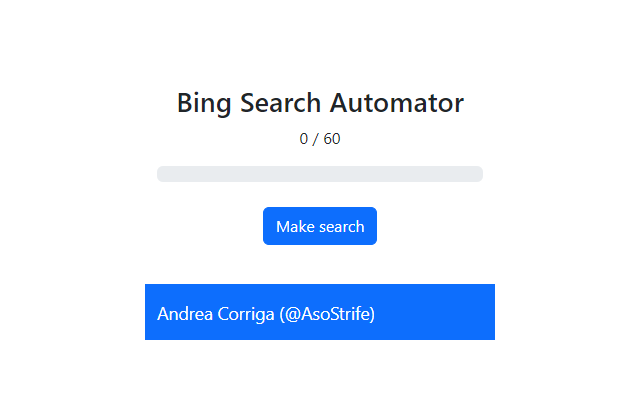
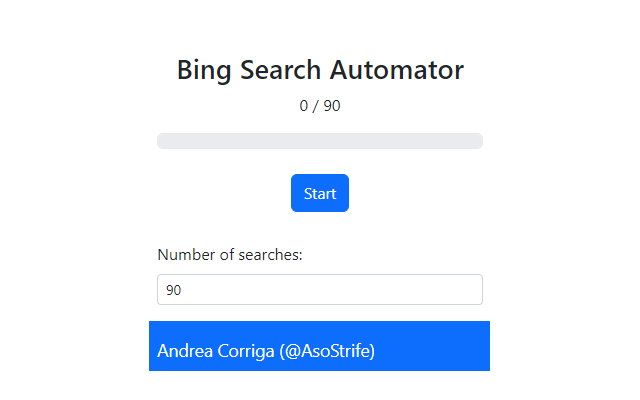
Update button and images

diff --git a/index.html b/index.html
@@ -24,7 +24,7 @@
             </div>
         </div>
         
-        <button type="button" class="btn btn-primary mt-25" id="searchButton">Make searches</button>
+        <button type="button" class="btn btn-primary mt-25" id="searchButton">Start</button>
     </div>
 
     <div class="container mt-30">
